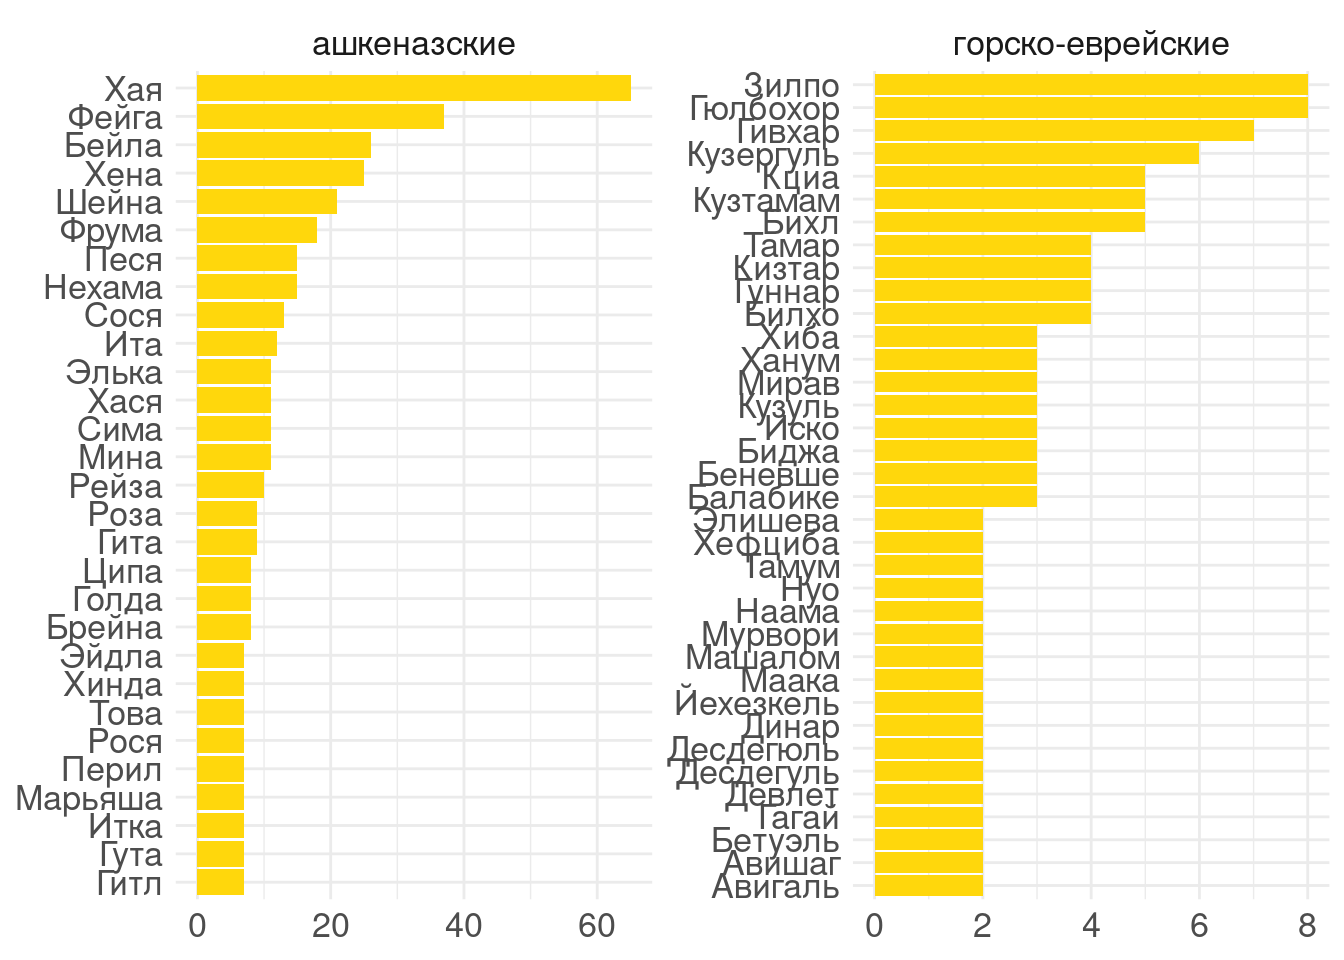
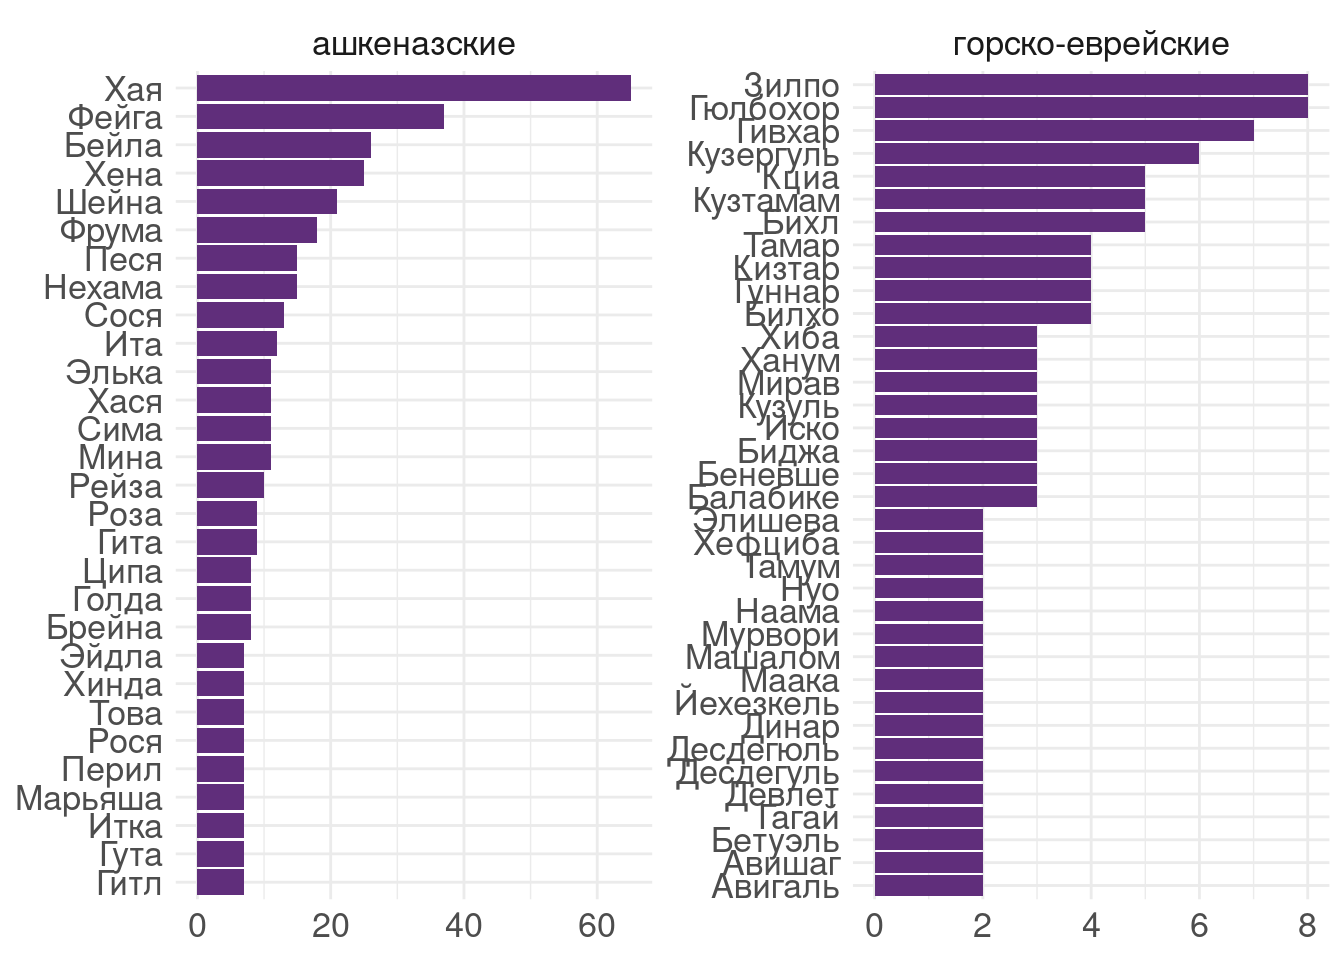
update

Changed region(s): [[0.625, 0.0625, 1.0, 0.9375], [0.125, 0.0625, 0.4688, 0.9375]]

diff --git a/index.html b/index.html
@@ -429,7 +429,7 @@ window.Quarto = {
 <span id="cb11-5"><a href="#cb11-5" aria-hidden="true" tabindex="-1"></a>  <span class="fu">slice_max</span>(<span class="at">order_by =</span> n, <span class="at">n =</span> <span class="dv">25</span>) <span class="sc">|&gt;</span> </span>
 <span id="cb11-6"><a href="#cb11-6" aria-hidden="true" tabindex="-1"></a>  <span class="fu">mutate</span>(<span class="at">name =</span> <span class="fu">reorder_within</span>(name, <span class="at">within =</span> region, n)) <span class="sc">|&gt;</span> </span>
 <span id="cb11-7"><a href="#cb11-7" aria-hidden="true" tabindex="-1"></a>  <span class="fu">ggplot</span>(<span class="fu">aes</span>(n, name))<span class="sc">+</span></span>
-<span id="cb11-8"><a href="#cb11-8" aria-hidden="true" tabindex="-1"></a>  <span class="fu">geom_col</span>(<span class="at">fill =</span> <span class="st">"#ffd70c"</span>)<span class="sc">+</span></span>
+<span id="cb11-8"><a href="#cb11-8" aria-hidden="true" tabindex="-1"></a>  <span class="fu">geom_col</span>(<span class="at">fill =</span> <span class="st">"#602e7b"</span>)<span class="sc">+</span></span>
 <span id="cb11-9"><a href="#cb11-9" aria-hidden="true" tabindex="-1"></a>  <span class="fu">scale_y_reordered</span>()<span class="sc">+</span></span>
 <span id="cb11-10"><a href="#cb11-10" aria-hidden="true" tabindex="-1"></a>  <span class="fu">facet_wrap</span>(<span class="sc">~</span>region, <span class="at">scales =</span> <span class="st">"free"</span>)<span class="sc">+</span></span>
 <span id="cb11-11"><a href="#cb11-11" aria-hidden="true" tabindex="-1"></a>  <span class="fu">labs</span>(<span class="at">x =</span> <span class="cn">NULL</span>, <span class="at">y =</span> <span class="cn">NULL</span>)</span></code><button title="Copy to Clipboard" class="code-copy-button"><i class="bi"></i></button></pre></div>
@@ -487,7 +487,7 @@ window.Quarto = {
 <span id="cb14-6"><a href="#cb14-6" aria-hidden="true" tabindex="-1"></a>  <span class="fu">slice_max</span>(<span class="at">order_by =</span> tf_idf, <span class="at">n =</span> <span class="dv">25</span>) <span class="sc">|&gt;</span> </span>
 <span id="cb14-7"><a href="#cb14-7" aria-hidden="true" tabindex="-1"></a>  <span class="fu">mutate</span>(<span class="at">name =</span> <span class="fu">reorder_within</span>(name, <span class="at">within =</span> region, n)) <span class="sc">|&gt;</span> </span>
 <span id="cb14-8"><a href="#cb14-8" aria-hidden="true" tabindex="-1"></a>  <span class="fu">ggplot</span>(<span class="fu">aes</span>(n, name))<span class="sc">+</span></span>
-<span id="cb14-9"><a href="#cb14-9" aria-hidden="true" tabindex="-1"></a>  <span class="fu">geom_col</span>(<span class="at">fill =</span> <span class="st">"#ffd70c"</span>)<span class="sc">+</span></span>
+<span id="cb14-9"><a href="#cb14-9" aria-hidden="true" tabindex="-1"></a>  <span class="fu">geom_col</span>(<span class="at">fill =</span> <span class="st">"#602e7b"</span>)<span class="sc">+</span></span>
 <span id="cb14-10"><a href="#cb14-10" aria-hidden="true" tabindex="-1"></a>  <span class="fu">scale_y_reordered</span>()<span class="sc">+</span></span>
 <span id="cb14-11"><a href="#cb14-11" aria-hidden="true" tabindex="-1"></a>  <span class="fu">facet_wrap</span>(<span class="sc">~</span>region, <span class="at">scales =</span> <span class="st">"free"</span>)<span class="sc">+</span></span>
 <span id="cb14-12"><a href="#cb14-12" aria-hidden="true" tabindex="-1"></a>  <span class="fu">labs</span>(<span class="at">x =</span> <span class="cn">NULL</span>, <span class="at">y =</span> <span class="cn">NULL</span>) </span></code><button title="Copy to Clipboard" class="code-copy-button"><i class="bi"></i></button></pre></div>
@@ -536,7 +536,7 @@ window.Quarto = {
 <span id="cb16-7"><a href="#cb16-7" aria-hidden="true" tabindex="-1"></a>  <span class="fu">slice_max</span>(<span class="at">order_by =</span> n, <span class="at">n =</span> <span class="dv">25</span>) <span class="sc">|&gt;</span> </span>
 <span id="cb16-8"><a href="#cb16-8" aria-hidden="true" tabindex="-1"></a>  <span class="fu">mutate</span>(<span class="at">name =</span> <span class="fu">reorder_within</span>(name, <span class="at">within =</span> region, n)) <span class="sc">|&gt;</span> </span>
 <span id="cb16-9"><a href="#cb16-9" aria-hidden="true" tabindex="-1"></a>  <span class="fu">ggplot</span>(<span class="fu">aes</span>(n, name))<span class="sc">+</span></span>
-<span id="cb16-10"><a href="#cb16-10" aria-hidden="true" tabindex="-1"></a>  <span class="fu">geom_col</span>(<span class="at">fill =</span> <span class="st">"#ffd70c"</span>)<span class="sc">+</span></span>
+<span id="cb16-10"><a href="#cb16-10" aria-hidden="true" tabindex="-1"></a>  <span class="fu">geom_col</span>(<span class="at">fill =</span> <span class="st">"#602e7b"</span>)<span class="sc">+</span></span>
 <span id="cb16-11"><a href="#cb16-11" aria-hidden="true" tabindex="-1"></a>  <span class="fu">scale_y_reordered</span>()<span class="sc">+</span></span>
 <span id="cb16-12"><a href="#cb16-12" aria-hidden="true" tabindex="-1"></a>  <span class="fu">facet_wrap</span>(<span class="sc">~</span>region, <span class="at">scales =</span> <span class="st">"free"</span>)<span class="sc">+</span></span>
 <span id="cb16-13"><a href="#cb16-13" aria-hidden="true" tabindex="-1"></a>  <span class="fu">labs</span>(<span class="at">x =</span> <span class="cn">NULL</span>, <span class="at">y =</span> <span class="cn">NULL</span>) </span></code><button title="Copy to Clipboard" class="code-copy-button"><i class="bi"></i></button></pre></div>
